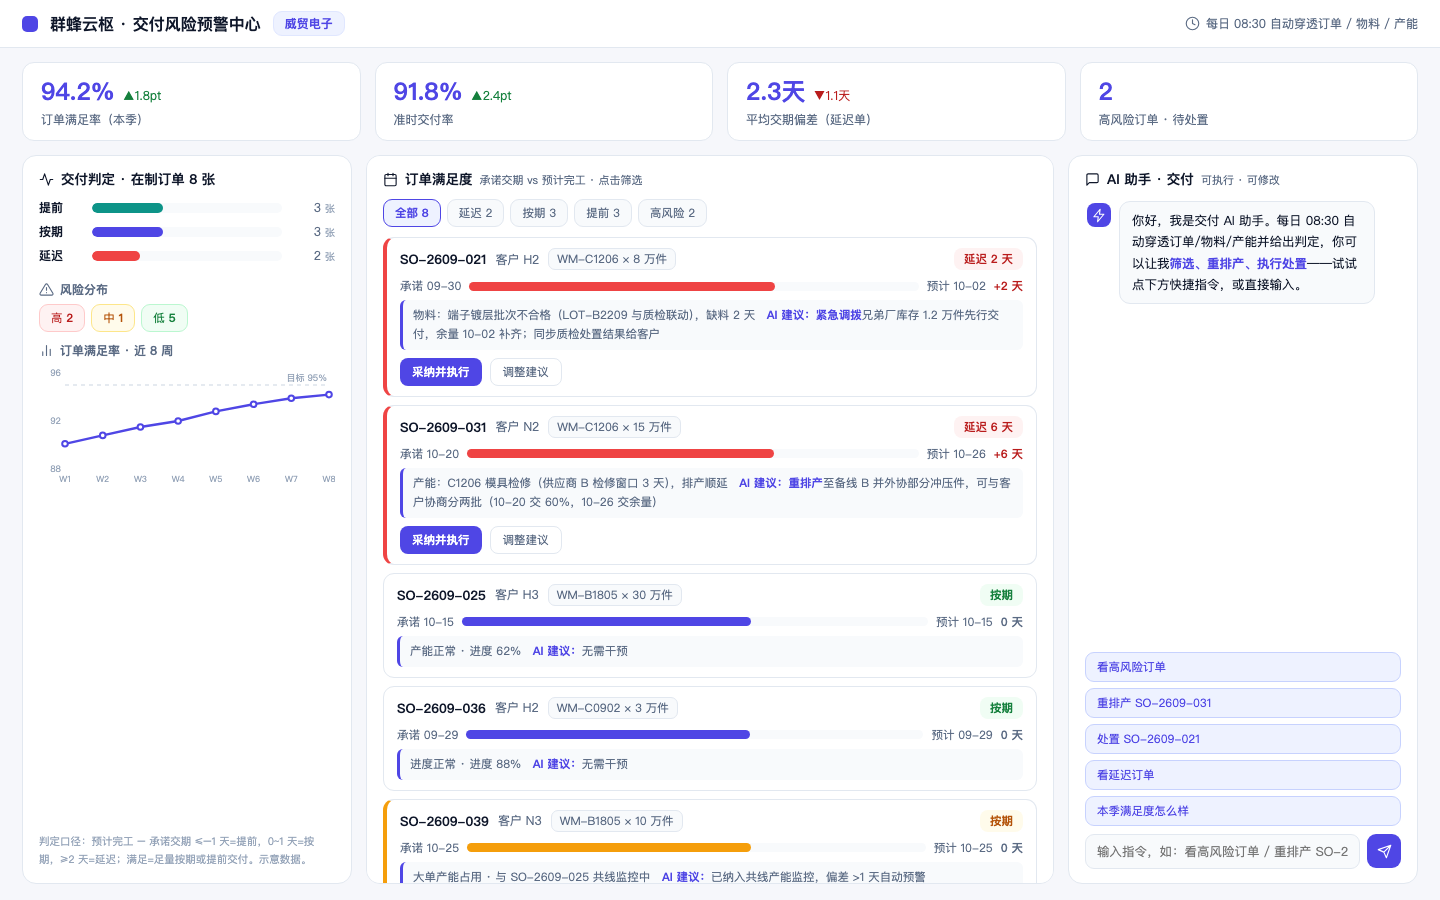
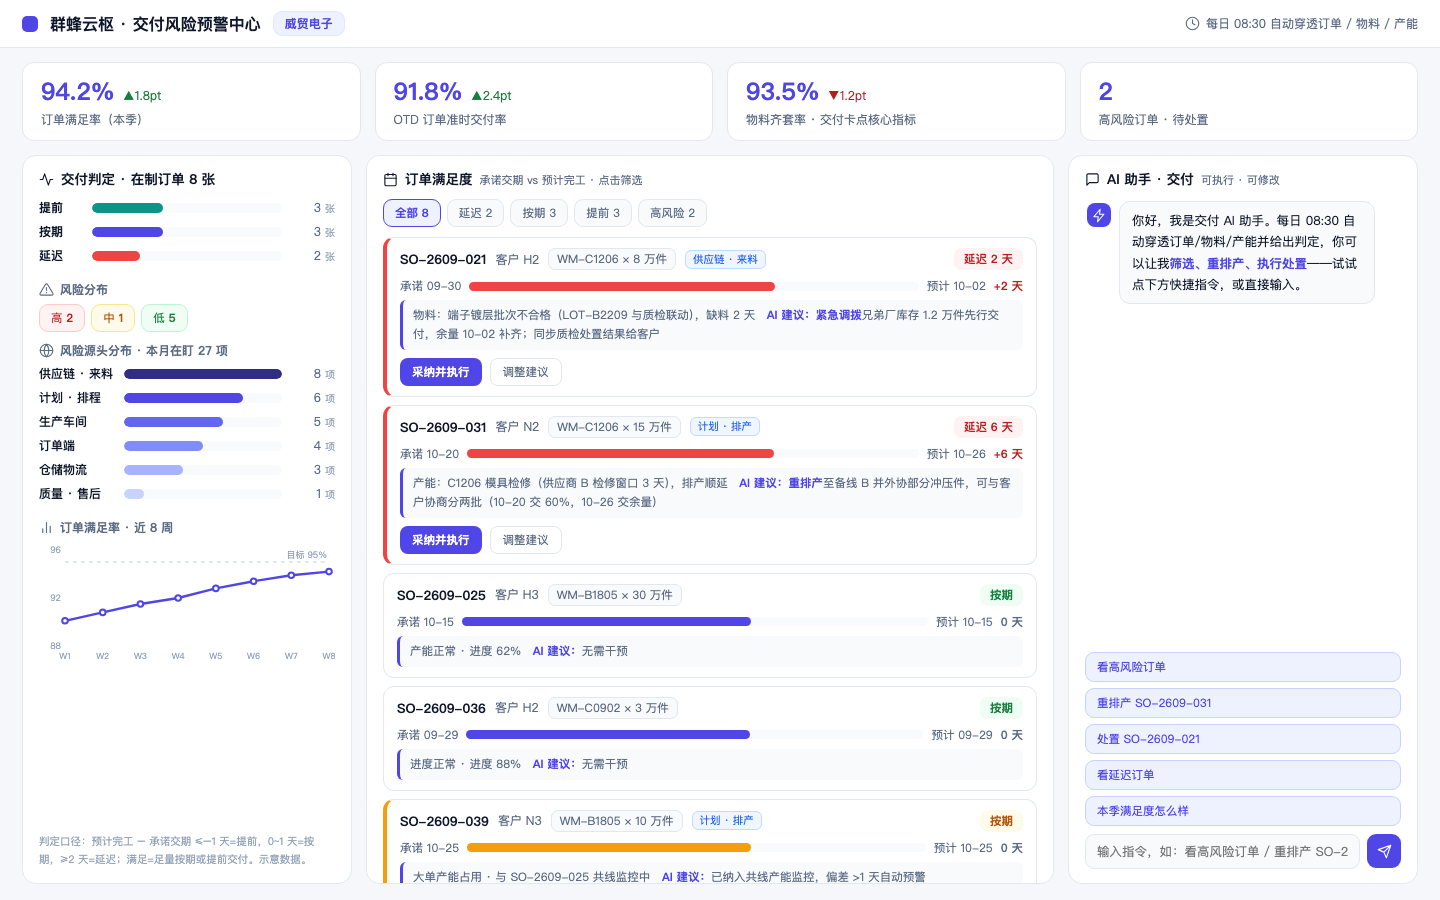
feat(demos): scenario-3 按制造业交付风险框架校准 — 六源头风险分布/OTD与齐套率KPI/订单源头标签/一句话总结横幅

diff --git a/demos/scenario-3-delivery.html b/demos/scenario-3-delivery.html
@@ -35,6 +35,10 @@ body{background:var(--bg);color:var(--tx);height:100vh;display:flex;flex-directi
 .rchip.md{border-color:#FDE68A;background:var(--warnbg);color:var(--warn)}
 .rchip.lo{border-color:#BBF7D0;background:var(--okbg);color:var(--ok)}
 .dfoot{font-size:10.5px;color:#94A3B8;line-height:1.7;margin-top:auto;padding-top:8px}
+.oneline{margin-top:10px;display:flex;align-items:flex-start;gap:8px;font-size:11.5px;line-height:1.7;color:var(--tx);background:#EEF2FF;border:1px solid #C7D2FE;border-radius:10px;padding:8px 12px}
+.oneline .ic{color:var(--ac);margin-top:2px}
+.oneline b{color:var(--ac)}
+.srctag{font-size:10.5px;color:var(--blue);background:#EFF6FF;border:1px solid #BFDBFE;border-radius:6px;padding:1px 7px}
 /* 订单行 */
 .fbar{display:flex;gap:6px;flex-wrap:wrap;margin-bottom:10px}
 .fchip{font-size:11.5px;border:1px solid var(--bd);border-radius:9px;padding:5px 11px;color:var(--mut);cursor:pointer;background:var(--pan2)}
@@ -97,8 +101,8 @@ svg text{font-family:inherit}
 
 <div class="kpis">
 <div class="kpi"><b>94.2%</b><i>▲1.8pt</i><span>订单满足率（本季）</span></div>
-<div class="kpi"><b>91.8%</b><i>▲2.4pt</i><span>准时交付率</span></div>
-<div class="kpi"><b>2.3天</b><i class="dn">▼1.1天</i><span>平均交期偏差（延迟单）</span></div>
+<div class="kpi"><b>91.8%</b><i>▲2.4pt</i><span>OTD 订单准时交付率</span></div>
+<div class="kpi"><b>93.5%</b><i class="dn">▼1.2pt</i><span>物料齐套率 · 交付卡点核心指标</span></div>
 <div class="kpi"><b id="kHi">2</b><span>高风险订单 · 待处置</span></div></div>
 
 <div class="wrap">
@@ -109,6 +113,8 @@ svg text{font-family:inherit}
 <div class="vbar"><b>延迟</b><div class="tr"><i style="width:25%;background:#EF4444"></i></div><span class="n">2 <small>张</small></span></div>
 <div class="sec"><svg class="ic" viewBox="0 0 24 24"><path d="M10.3 3.9L1.8 18a2 2 0 0 0 1.7 3h17a2 2 0 0 0 1.7-3L13.7 3.9a2 2 0 0 0-3.4 0z"/><path d="M12 9v4M12 17h.01"/></svg>风险分布</div>
 <div class="rchips"><span class="rchip hi" onclick="setFilter('hi')">高 <b>2</b></span><span class="rchip md">中 <b>1</b></span><span class="rchip lo">低 <b>5</b></span></div>
+<div class="sec"><svg class="ic" viewBox="0 0 24 24"><circle cx="12" cy="12" r="10"/><path d="M2 12h20M12 2a15 15 0 0 1 0 20 15 15 0 0 1 0-20z"/></svg>风险源头分布 · 本月在盯 27 项</div>
+<div id="srcbars"></div>
 <div class="sec"><svg class="ic" viewBox="0 0 24 24"><path d="M18 20V10M12 20V4M6 20v-6"/></svg>订单满足率 · 近 8 周</div>
 <svg id="trend" width="100%" height="120"></svg>
 <div class="dfoot">判定口径：预计完工 − 承诺交期 ≤−1 天=提前，0~1 天=按期，≥2 天=延迟；满足=足量按期或提前交付。示意数据。</div>
@@ -119,6 +125,7 @@ svg text{font-family:inherit}
 <div class="fbar" id="fbar"></div>
 <div id="olist"></div>
 <div class="legend" style="margin-top:4px"><span><i style="background:#4F46E5"></i>已投产</span><span><i style="background:#F59E0B"></i>物料/产能受限</span><span><i style="background:#EF4444"></i>延迟风险段</span></div>
+<div class="oneline"><svg class="ic" viewBox="0 0 24 24"><path d="M13 2L3 14h7l-1 8 10-12h-7l1-8z"/></svg><span>制造业交付风险集中在<b>需求预测、供应链来料、排产冲突、设备停机、制程不良</b>五大卡点；AI 最擅长<b>预测预警、交期仿真、动态重排、根因挖掘</b>；核心衡量指标：<b>OTD 准时交付率 · 物料齐套率 · 延期天数 · 预警提前量</b></span></div>
 </div>
 
 <div class="panel right">
@@ -132,15 +139,15 @@ svg text{font-family:inherit}
 
 <script>
 const ORDERS=[
- {id:"SO-2609-021",cust:"客户 H2",prod:"WM-C1206",qty:"8 万件",promise:"09-30",eta:"10-02",dev:2,v:"late",vr:"延迟 2 天",risk:"h",rs:"高风险",done:false,
+ {id:"SO-2609-021",cust:"客户 H2",prod:"WM-C1206",qty:"8 万件",promise:"09-30",eta:"10-02",dev:2,v:"late",vr:"延迟 2 天",risk:"h",rs:"高风险",done:false,src:"供应链 · 来料",
   cause:"物料：端子镀层批次不合格（LOT-B2209 与质检联动），缺料 2 天",
   sug:"<b>紧急调拨</b>兄弟厂库存 1.2 万件先行交付，余量 10-02 补齐；同步质检处置结果给客户"},
- {id:"SO-2609-031",cust:"客户 N2",prod:"WM-C1206",qty:"15 万件",promise:"10-20",eta:"10-26",dev:6,v:"late",vr:"延迟 6 天",risk:"h",rs:"高风险",done:false,
+ {id:"SO-2609-031",cust:"客户 N2",prod:"WM-C1206",qty:"15 万件",promise:"10-20",eta:"10-26",dev:6,v:"late",vr:"延迟 6 天",risk:"h",rs:"高风险",done:false,src:"计划 · 排产",
   cause:"产能：C1206 模具检修（供应商 B 检修窗口 3 天），排产顺延",
   sug:"<b>重排产</b>至备线 B 并外协部分冲压件，可与客户协商分两批（10-20 交 60%，10-26 交余量）"},
  {id:"SO-2609-025",cust:"客户 H3",prod:"WM-B1805",qty:"30 万件",promise:"10-15",eta:"10-15",dev:0,v:"ontime",vr:"按期",risk:"l",rs:"低风险",done:false,cause:"产能正常 · 进度 62%",sug:"无需干预"},
  {id:"SO-2609-036",cust:"客户 H2",prod:"WM-C0902",qty:"3 万件",promise:"09-29",eta:"09-29",dev:0,v:"ontime",vr:"按期",risk:"l",rs:"低风险",done:false,cause:"进度正常 · 进度 88%",sug:"无需干预"},
- {id:"SO-2609-039",cust:"客户 N3",prod:"WM-B1805",qty:"10 万件",promise:"10-25",eta:"10-25",dev:0,v:"ontime",vr:"按期",risk:"m",rs:"中风险",done:false,cause:"大单产能占用 · 与 SO-2609-025 共线监控中",sug:"已纳入共线产能监控，偏差 >1 天自动预警"},
+ {id:"SO-2609-039",cust:"客户 N3",prod:"WM-B1805",qty:"10 万件",promise:"10-25",eta:"10-25",dev:0,v:"ontime",vr:"按期",risk:"m",rs:"中风险",done:false,src:"计划 · 排产",cause:"大单产能占用 · 与 SO-2609-025 共线监控中",sug:"已纳入共线产能监控，偏差 >1 天自动预警"},
  {id:"SO-2609-018",cust:"客户 H1",prod:"WM-C0902",qty:"12 万件",promise:"10-08",eta:"10-05",dev:-3,v:"early",vr:"提前 3 天",risk:"l",rs:"低风险",done:false,cause:"进度 94% · 预计提前 3 天完工",sug:"可提前发货，节省仓储 3 天（已同步销售确认）"},
  {id:"SO-2609-028",cust:"客户 H1",prod:"WM-C0902",qty:"5 万件",promise:"09-28",eta:"09-26",dev:-2,v:"early",vr:"提前 2 天",risk:"l",rs:"低风险",done:false,cause:"进度 97% · 预计提前 2 天",sug:"无需干预"},
  {id:"SO-2609-033",cust:"客户 H4",prod:"WM-B1805",qty:"6 万件",promise:"10-02",eta:"10-01",dev:-1,v:"early",vr:"提前 1 天",risk:"l",rs:"低风险",done:false,cause:"进度 91% · 预计提前 1 天",sug:"无需干预"}];
@@ -161,7 +168,7 @@ function renderOrders(){const fb=document.getElementById("fbar");
   const trackColor=o.v==="late"?"#EF4444":o.risk==="m"?"#F59E0B":"#4F46E5";
   const prog=o.v==="late"?68:o.v==="ontime"?62:90;
   const d=document.createElement("div");d.className="orow "+(o.done?"done":o.risk==="h"?"hi":o.risk==="m"?"md":"");
-  d.innerHTML=`<div class="oh"><span class="oid">${o.id}</span><span class="cust">${o.cust}</span><span class="prod">${o.prod} × ${o.qty}</span>
+  d.innerHTML=`<div class="oh"><span class="oid">${o.id}</span><span class="cust">${o.cust}</span><span class="prod">${o.prod} × ${o.qty}</span>${o.src?`<span class="srctag">${o.src}</span>`:""}
   <span class="badge ${o.v==="late"?"hi":o.risk==="m"?"warn":"ok"}">${o.vr}${o.done?" · 已处置":""}</span></div>
   <div class="obar"><span>承诺 ${o.promise}</span><div class="track"><i style="width:${prog}%;background:${trackColor}"></i></div><span>预计 ${o.eta}</span>
   <span class="dev" style="color:${o.dev>0?"var(--bad)":o.dev<0?"var(--ok)":"var(--mut)"}">${o.dev>0?"+"+o.dev:o.dev} 天</span></div>
@@ -179,6 +186,11 @@ function renderTrend(){const svg=document.getElementById("trend");const W=svg.cl
  s+=`<polyline points="${TREND.map((v,i)=>x(i)+","+y(v)).join(" ")}" fill="none" stroke="#4F46E5" stroke-width="2.4" stroke-linecap="round"/>`;
  s+=TREND.map((v,i)=>`<circle cx="${x(i)}" cy="${y(v)}" r="2.8" fill="#fff" stroke="#4F46E5" stroke-width="2"/><text x="${x(i)}" y="${H-3}" font-size="8.5" fill="#94A3B8" text-anchor="middle">W${i+1}</text>`).join("");
  svg.innerHTML=s}
+
+const SRCS=[["供应链 · 来料",8],["计划 · 排程",6],["生产车间",5],["订单端",4],["仓储物流",3],["质量 · 售后",1]];
+const SRCC=["#312E81","#4F46E5","#6366F1","#818CF8","#A5B4FC","#C7D2FE"];
+function renderSrcBars(){const mx=Math.max(...SRCS.map(s=>s[1]));
+ document.getElementById("srcbars").innerHTML=SRCS.map((s,i)=>`<div class="vbar"><b style="width:76px;font-weight:500">${s[0]}</b><div class="tr"><i style="width:${s[1]/mx*100}%;background:${SRCC[i]}"></i></div><span class="n">${s[1]} <small>项</small></span></div>`).join("")}
 
 /* ─── AI 对话 ─── */
 function pushMsg(cls,html,doTxt){const box=document.getElementById("msgs");const d=document.createElement("div");d.className="msg "+cls;
@@ -201,6 +213,8 @@ function route(t){
     filter="all";renderOrders();syncKpi();
     aiSay("<b>"+o.id+"</b> 已完成重排产：备线 B 排产成功，预计完工 <b>10-20</b>，判定由「延迟 6 天」改为<b>按期</b>，高风险订单 -1。分批交付建议已同步客户接口人。","已执行");}
    else{adopt(o.id)}return}}
+ if(/源头|风险清单|六大|分类/.test(t)){aiSay("按源头分类，本月在盯风险 <b>27 项</b>：<b>供应链来料 8</b>（最常见交付卡点）、计划排程 6、生产车间 5、订单端 4、仓储物流 3、质量售后 1。分布见左栏；延迟订单已标源头标签，可穿透到具体单据。");return}
+ if(/齐套/.test(t)){aiSay("物料齐套率本季 <b>93.5%</b>（目标 95%）。缺料集中在镀层端子——与质检不合格批次 LOT-B2209 联动，SO-2609-021 调拨方案执行后预计回到 95%。");return}
  if(/高风险|风险订单/.test(t)){setFilter("hi");const s=stat();
   aiSay("当前高风险订单 <b>"+s.hi+" 张</b>：SO-2609-021（物料缺料 2 天，建议紧急调拨先行交付）、SO-2609-031（模具检修致延迟 6 天，建议重排产+分批）。均可一键「采纳并执行」。","已筛选高风险");return}
  if(/延迟/.test(t)){setFilter("late");aiSay("延迟在制订单 <b>2 张</b>（合计影响满足率约 0.9pt）。SO-2609-021 走物料调拨可收回 2 天；SO-2609-031 建议重排产+分批。回复「重排产 SO-2609-031」可直接执行。","已筛选延迟");return}
@@ -216,7 +230,7 @@ const QCHIPS=["看高风险订单","重排产 SO-2609-031","处置 SO-2609-021",
 document.getElementById("qchips").innerHTML=QCHIPS.map(q=>`<span class="qchip" onclick="document.getElementById('aiIn').value='${q}';aiSend()">${q}</span>`).join("");
 function toast(t){const el=document.getElementById("toast");el.textContent=t;el.style.display="block";
  clearTimeout(toast._t);toast._t=setTimeout(()=>el.style.display="none",2400)}
-renderOrders();renderTrend();
+renderOrders();renderTrend();renderSrcBars();
 pushMsg("ai","你好，我是交付 AI 助手。每日 08:30 自动穿透订单/物料/产能并给出判定，你可以让我<b>筛选、重排产、执行处置</b>——试试点下方快捷指令，或直接输入。");
-window.addEventListener("resize",renderTrend);
+window.addEventListener("resize",()=>{renderTrend();renderSrcBars()});
 </script></body></html>
